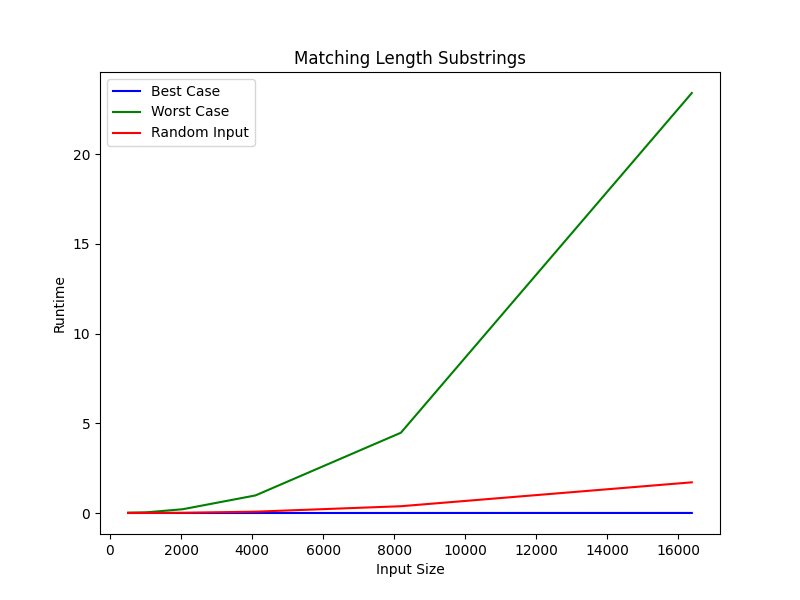
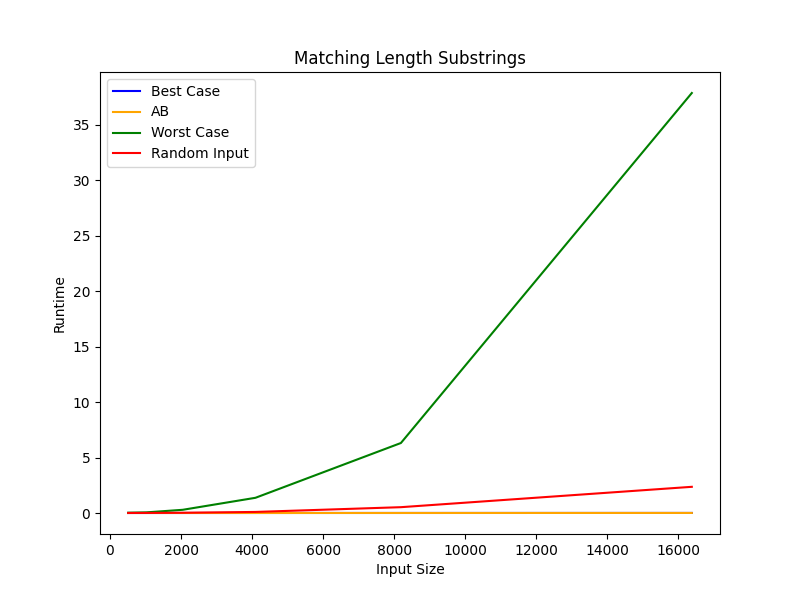
commit

diff --git a/hw5/eqsubstr.py b/hw5/eqsubstr.py
@@ -107,6 +107,25 @@ def getBest(n):
     return ans
 
 # write a function to generate the best case
+def getAB(n):
+    choices = ['a', 'b']
+    pattern_choice = random.choice([1, 2])  # 1 represents (a*b*), 2 represents (b*a*)
+
+    length = n   # Ensure that the sum of a_count and b_count does not exceed n
+    
+    if pattern_choice == 1:
+        a_count = random.randint(0, length)
+        b_count = length - a_count
+        sequence = ['a'] * a_count + ['b'] * b_count
+        result = ''.join(sequence)    
+    else:
+        b_count = random.randint(0, length)
+        a_count = length - b_count
+        sequence = ['b'] * b_count + ['a'] * a_count
+        result = ''.join(sequence)
+    return result
+
+# write a function to generate the best case
 def getWorst(n):
     ans = ""
     for i in range(int(n/2)):
@@ -115,16 +134,19 @@ def getWorst(n):
 
 def getString(sizeArr):
     best = []
+    AB = []
     worst = []
     randomS = []
     for i in range(len(sizeArr)):
         best.append(getBest(sizeArr[i]))
+        AB.append(getAB(sizeArr[i]))
         worst.append(getWorst(sizeArr[i]))
         randomS.append(rndstr(sizeArr[i]))
-    return [best, worst, randomS]
+    return [best, AB, worst, randomS]
 
 def getTime(strings):
     timeBest = []
+    timeAB = []
     timeWorst =[]
     timeRandom = []
     
@@ -133,15 +155,19 @@ def getTime(strings):
         matching_length_sub_strs(strings[0][i], "a", "b")
         timeBest.append(time.time() - timeBeforeBest)
         
-        timeBeforeWorst = time.time()
+        timeBeforeAB = time.time()
         matching_length_sub_strs(strings[1][i], "a", "b")
+        timeAB.append(time.time() - timeBeforeAB)
+        
+        timeBeforeWorst = time.time()
+        matching_length_sub_strs(strings[2][i], "a", "b")
         timeWorst.append(time.time() - timeBeforeWorst)
         
         timeBeforeRandom = time.time()
-        matching_length_sub_strs(strings[2][i], "a", "b")
+        matching_length_sub_strs(strings[3][i], "a", "b")
         timeRandom.append(time.time() - timeBeforeRandom)
     
-    return [timeBest, timeWorst, timeRandom]
+    return [timeBest, timeAB, timeWorst, timeRandom]
 
 def main():
     sizeArr = getSize(512)
@@ -155,7 +181,7 @@ def main():
     rowname = []
     
     # calculate the average runtime
-    for i in range(3):
+    for i in range(4):
         tmp = []
         for j in range(len(sizeArr)):
             tmp.append((time1[i][j] + time2[i][j] + time3[i][j]) / 3)
@@ -166,44 +192,47 @@ def main():
         print(sizeArr[i], ",",
               time[0][i], ",",
               time[1][i], ",",
-              time[2][i], "\n")
+              time[2][i], ",",
+              time[3][i], "\n")
     
     # The following part are comment for submitting
     
-    #Save plot
-    # plt.figure(figsize=(8, 6))
+    # Save plot
+    plt.figure(figsize=(8, 6))
 
-    # plt.plot(sizeArr, time[0], label='Best Case', color='blue')
-    # plt.plot(sizeArr, time[1], label='Worst Case', color='green')
-    # plt.plot(sizeArr, time[2], label='Random Input', color='red')
-    # plt.xlabel('Input Size')
-    # plt.ylabel('Runtime')
-    # plt.title('Matching Length Substrings')
-    # plt.legend()
+    plt.plot(sizeArr, time[0], label='Best Case', color='blue')
+    plt.plot(sizeArr, time[1], label='AB', color='orange')
+    plt.plot(sizeArr, time[2], label='Worst Case', color='green')
+    plt.plot(sizeArr, time[3], label='Random Input', color='red')
+    plt.xlabel('Input Size')
+    plt.ylabel('Runtime')
+    plt.title('Matching Length Substrings')
+    plt.legend()
 
-    # plt.savefig('q3.png')
+    plt.savefig('q3.png')
     
-    # #import packages
+    #import packages
 
-    # fig, ax =plt.subplots(1, 1)
+    fig, ax =plt.subplots(1, 1)
 
-    # table = pd.DataFrame()
-    # table['Best Case'] = time[0]
-    # table['Worst Case'] = time[1]
-    # table['Random Input'] = time[2]
-    # table.index = rowname # type: ignore
+    table = pd.DataFrame()
+    table['Best Case'] = time[0]
+    table['AB'] = time[0]
+    table['Worst Case'] = time[2]
+    table['Random Input'] = time[3]
+    table.index = rowname # type: ignore
         
-    # ax.axis('tight')
-    # ax.axis('off')
+    ax.axis('tight')
+    ax.axis('off')
 
-    # #plotting data
-    # table = ax.table(cellText = table.values,
-    #         colLabels = table.columns,
-    #         rowLabels = sizeArr,
-    #         loc="center")
-    # table.set_fontsize(14)
-    # table.scale(1,2)
-    # plt.savefig('q3_table.png')
+    #plotting data
+    table = ax.table(cellText = table.values,
+            colLabels = table.columns,
+            rowLabels = sizeArr,
+            loc="center")
+    table.set_fontsize(14)
+    table.scale(1,2)
+    plt.savefig('q3_table.png')
     
     return 0
 
